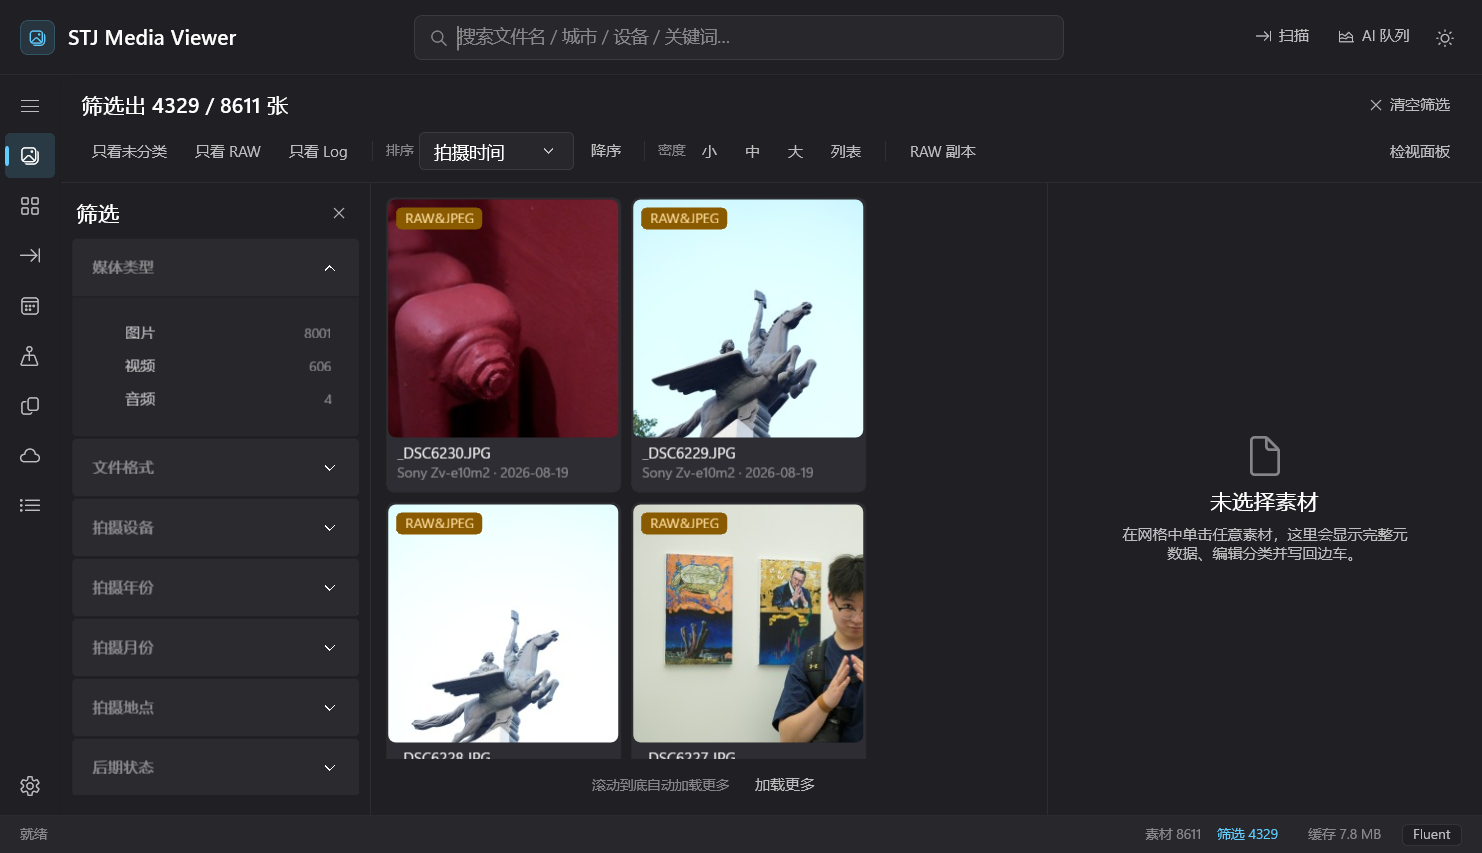
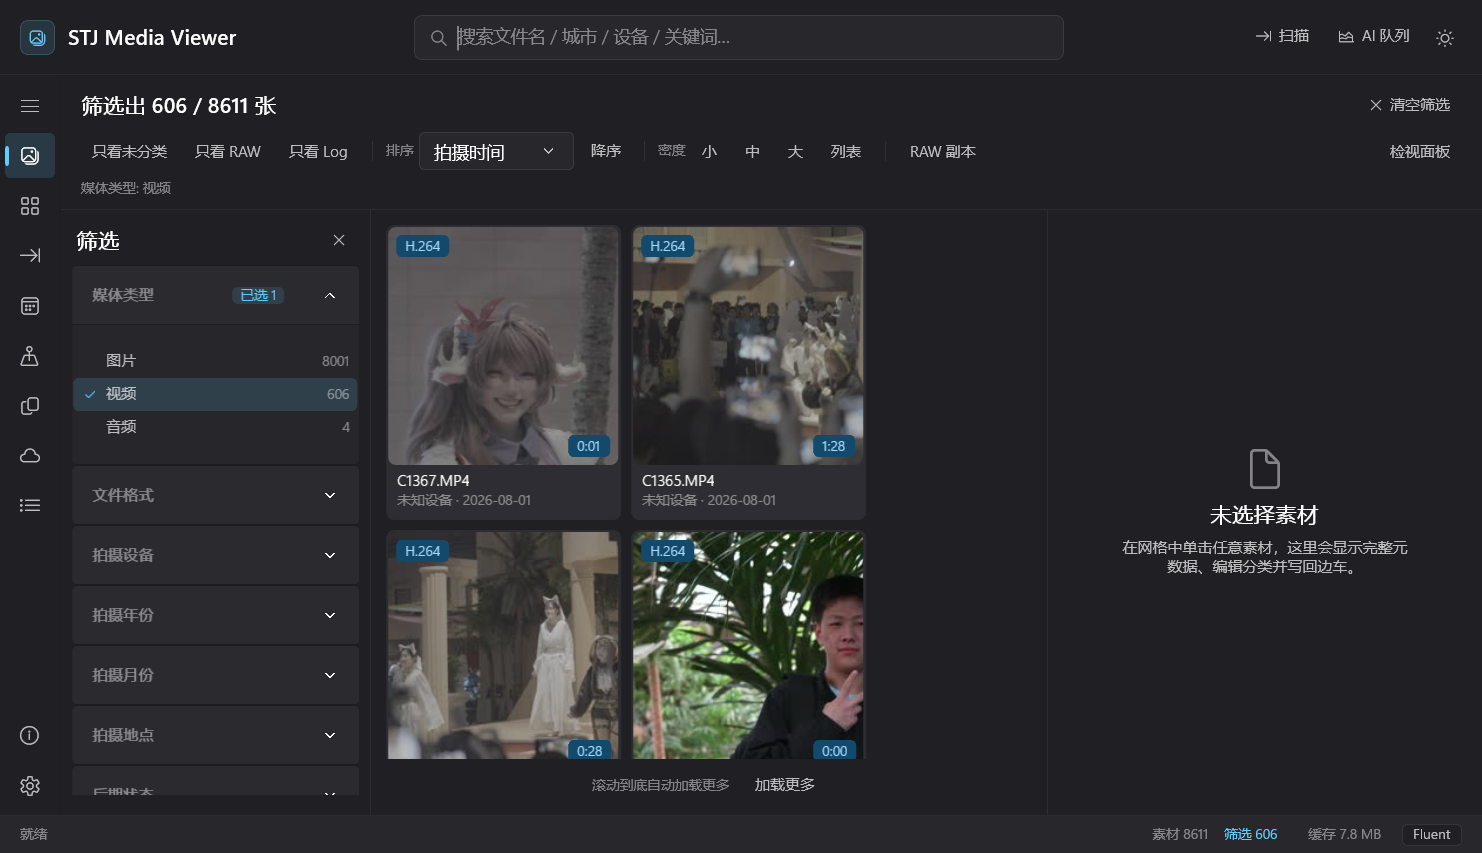
fix(ui): selection block fills the whole row (was inset 6px and only text-height); fix collapsed query hiding videos/audio (is_group_cover default)

diff --git a/src/StjMediaViewer.App/Views/LibraryPage.xaml b/src/StjMediaViewer.App/Views/LibraryPage.xaml
@@ -32,6 +32,8 @@
             <Setter Property="MinHeight" Value="26" />
             <Setter Property="HorizontalAlignment" Value="Stretch" />
             <Setter Property="HorizontalContentAlignment" Value="Stretch" />
+            <!-- 垂直也要撑满：否则选中色块只有文字高度，看起来像行中间的一条小胶囊 -->
+            <Setter Property="VerticalContentAlignment" Value="Stretch" />
             <Setter Property="CornerRadius" Value="{ThemeResource AppRadiusSmall}" />
             <Setter Property="FontSize" Value="{ThemeResource AppFontCaptionSize}" />
             <Setter Property="Foreground" Value="{ThemeResource TextSecondaryBrush}" />
@@ -580,38 +582,45 @@
                                             </Grid>
                                         </Expander.Header>
 
-                                        <ItemsControl ItemsSource="{x:Bind Options}">
+                                        <!--
+                                            负边距抵消 Expander 内容区的内边距：让行（含选中色块）宽度逼近卡片边缘，
+                                            只保留 4px 呼吸位，这样色块和卡片这张"大圆角矩形"才是同一条边。
+                                        -->
+                                        <ItemsControl ItemsSource="{x:Bind Options}"
+                                                      Margin="-15,0,-15,0">
                                             <ItemsControl.ItemTemplate>
                                                 <DataTemplate x:DataType="vm:FilterOptionViewModel">
                                                     <Button Style="{StaticResource FilterRowButtonStyle}"
                                                             Click="FilterOption_Click"
                                                             Opacity="{x:Bind RowOpacity, Mode=OneWay}">
-                                                        <Grid ColumnSpacing="6" Margin="6,0,6,0">
-                                                            <Grid.ColumnDefinitions>
-                                                                <ColumnDefinition Width="14" />
-                                                                <ColumnDefinition Width="*" />
-                                                                <ColumnDefinition Width="Auto" />
-                                                            </Grid.ColumnDefinitions>
-                                                            <Border Grid.ColumnSpan="3"
-                                                                    Background="{ThemeResource AppSelectedBrush}"
+                                                        <Grid>
+                                                            <!-- 选中色块满铺整行（与按钮 hover 底严格重合），内容再内缩 -->
+                                                            <Border Background="{ThemeResource AppSelectedBrush}"
                                                                     CornerRadius="{ThemeResource AppRadiusSmall}"
                                                                     Visibility="{x:Bind SelectionVisibility, Mode=OneWay}" />
-                                                            <FontIcon Grid.Column="0"
-                                                                      Glyph="&#xE73E;"
-                                                                      FontSize="{ThemeResource AppFontMicroSize}"
-                                                                      Foreground="{ThemeResource AccentBrush}"
-                                                                      VerticalAlignment="Center"
-                                                                      Visibility="{x:Bind SelectionVisibility, Mode=OneWay}" />
-                                                            <TextBlock Grid.Column="1"
-                                                                       Text="{x:Bind Display, Mode=OneWay}"
-                                                                       Style="{ThemeResource AppCaptionTextStyle}"
-                                                                       VerticalAlignment="Center"
-                                                                       TextTrimming="CharacterEllipsis" />
-                                                            <TextBlock Grid.Column="2"
-                                                                       Text="{x:Bind CountText, Mode=OneWay}"
-                                                                       Style="{ThemeResource AppMicroTextStyle}"
-                                                                       VerticalAlignment="Center"
-                                                                       Visibility="{x:Bind CountVisibility, Mode=OneWay}" />
+                                                            <Grid ColumnSpacing="6" Margin="6,0,6,0">
+                                                                <Grid.ColumnDefinitions>
+                                                                    <ColumnDefinition Width="14" />
+                                                                    <ColumnDefinition Width="*" />
+                                                                    <ColumnDefinition Width="Auto" />
+                                                                </Grid.ColumnDefinitions>
+                                                                <FontIcon Grid.Column="0"
+                                                                          Glyph="&#xE73E;"
+                                                                          FontSize="{ThemeResource AppFontMicroSize}"
+                                                                          Foreground="{ThemeResource AccentBrush}"
+                                                                          VerticalAlignment="Center"
+                                                                          Visibility="{x:Bind SelectionVisibility, Mode=OneWay}" />
+                                                                <TextBlock Grid.Column="1"
+                                                                           Text="{x:Bind Display, Mode=OneWay}"
+                                                                           Style="{ThemeResource AppCaptionTextStyle}"
+                                                                           VerticalAlignment="Center"
+                                                                           TextTrimming="CharacterEllipsis" />
+                                                                <TextBlock Grid.Column="2"
+                                                                           Text="{x:Bind CountText, Mode=OneWay}"
+                                                                           Style="{ThemeResource AppMicroTextStyle}"
+                                                                           VerticalAlignment="Center"
+                                                                           Visibility="{x:Bind CountVisibility, Mode=OneWay}" />
+                                                            </Grid>
                                                         </Grid>
                                                     </Button>
                                                 </DataTemplate>

diff --git a/src/StjMediaViewer.App/Views/TimelinePage.xaml b/src/StjMediaViewer.App/Views/TimelinePage.xaml
@@ -36,6 +36,8 @@
             <Setter Property="MinHeight" Value="30" />
             <Setter Property="HorizontalAlignment" Value="Stretch" />
             <Setter Property="HorizontalContentAlignment" Value="Stretch" />
+            <!-- 垂直撑满：让选中色块与整行重合，而不是只有文字高度 -->
+            <Setter Property="VerticalContentAlignment" Value="Stretch" />
             <Setter Property="CornerRadius" Value="{ThemeResource AppRadiusSmall}" />
         </Style>
 
@@ -113,7 +115,8 @@
                         <ItemsControl.ItemTemplate>
                             <DataTemplate x:DataType="vm:YearChipViewModel">
                                 <Button Style="{ThemeResource AppSubtleButtonStyle}" Tag="{x:Bind Year}" Click="Year_Click"
-                                        HorizontalContentAlignment="Stretch" Padding="0" MinHeight="28"
+                                        HorizontalContentAlignment="Stretch" VerticalContentAlignment="Stretch"
+                                        Padding="0" MinHeight="28"
                                         CornerRadius="{ThemeResource AppRadiusSmall}">
                                     <Grid>
                                         <Border Background="{ThemeResource AppSelectedBrush}"

diff --git a/tools/SelfCheck/Program.ImportChecks.cs b/tools/SelfCheck/Program.ImportChecks.cs
@@ -15,6 +15,19 @@ public static partial class Program
         var all = await s.Store.QueryAsync(new AssetQuery { Limit = 0, CollapseGroups = false });
         var collapsed = await s.Store.QueryAsync(new AssetQuery { Limit = 0, CollapseGroups = true });
 
+        // 回归：视频 / 音频 / 单张图不属于 JPG+RAW 组，折叠查询也必须能查到
+        // （曾经 IsGroupCover 默认 false，导致「媒体类型 = 视频」筛选结果为 0）
+        var videos = await s.Store.QueryAsync(new AssetQuery
+        {
+            Limit = 0,
+            CollapseGroups = true,
+            Kinds = { MediaKind.Video },
+        });
+        var expectedVideos = all.Count(a => a.Kind == MediaKind.Video);
+        Check("折叠模式下视频/音频仍可见",
+              videos.Count >= expectedVideos,
+              $"视频 {videos.Count} / 总计 {expectedVideos}");
+
         var groups = all.Where(a => !string.IsNullOrEmpty(a.GroupId)).ToList();
         var paired = groups.Where(a => a.GroupHasRaw && a.GroupHasJpeg)
                            .GroupBy(a => a.GroupId!)

diff --git a/src/StjMediaViewer.Core/Catalog/CatalogSchema.cs b/src/StjMediaViewer.Core/Catalog/CatalogSchema.cs
@@ -39,6 +39,11 @@ internal static class CatalogSchema
         EnsureColumn(conn, TableAssets, "group_has_jpeg", "INTEGER NOT NULL DEFAULT 0");
         EnsureColumn(conn, TableAssets, "companions_json", "TEXT NOT NULL DEFAULT '[]'");
 
+        // 迁移：v2 之前"不属于任何 JPG/RAW 组"的素材（视频 / 音频 / 单张图）没被标成组封面，
+        // 折叠模式下这些素材会被 `is_group_cover = 1` 过滤掉 → 按"视频"筛选出现 0 条。
+        // 这里把"没有组"的行补成封面（幂等，可重复执行）。
+        Execute(conn, "UPDATE assets SET is_group_cover = 1 WHERE COALESCE(group_id, '') = '' AND is_group_cover = 0;");
+
         Execute(conn, "CREATE UNIQUE INDEX IF NOT EXISTS ux_assets_full_path ON assets(full_path);");
         Execute(conn, "CREATE INDEX IF NOT EXISTS ix_assets_library ON assets(library_id);");
         Execute(conn, "CREATE INDEX IF NOT EXISTS ix_assets_kind ON assets(kind);");

diff --git a/src/StjMediaViewer.Core/Models/MediaAsset.cs b/src/StjMediaViewer.Core/Models/MediaAsset.cs
@@ -86,8 +86,12 @@ public sealed class MediaAsset
 
     /// <summary>同组共享的分组键（同一张照片的 JPG / RAW / 边车同属一组）。</summary>
     public string? GroupId { get; set; }
-    /// <summary>是否是这一组在网格里的代表（优先 JPG，没有 JPG 时用 RAW）。</summary>
-    public bool IsGroupCover { get; set; }
+    /// <summary>
+    /// 是否是这一组在网格里的代表（优先 JPG，没有 JPG 时用 RAW）。
+    /// 默认 true：不属于任何 JPG/RAW 组的素材（视频 / 音频 / 单张图）本身就是一格，
+    /// 折叠（CollapseGroups）查询按 `is_group_cover = 1` 过滤，默认 false 会让它们整类消失。
+    /// </summary>
+    public bool IsGroupCover { get; set; } = true;
     /// <summary>组内是否含 RAW。</summary>
     public bool GroupHasRaw { get; set; }
     /// <summary>组内是否含 JPEG。</summary>
